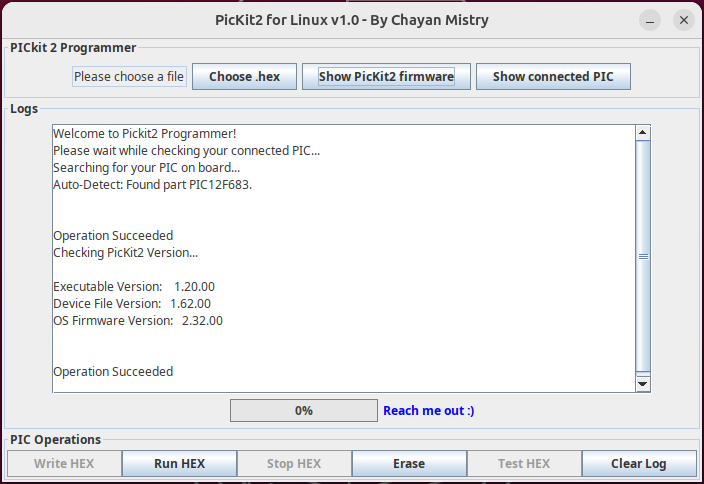
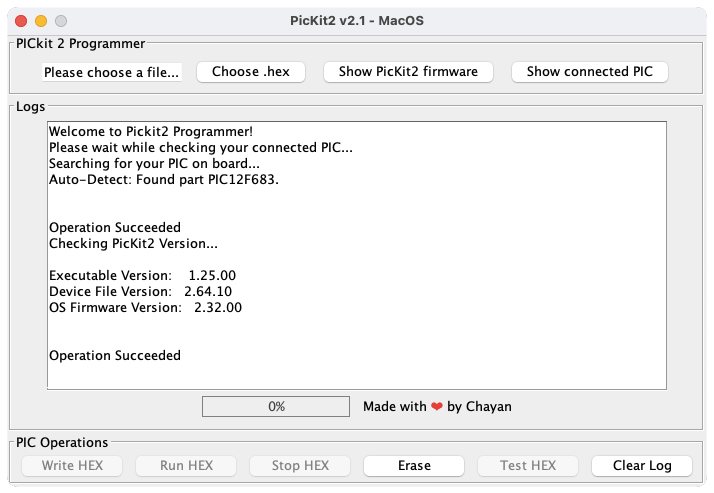
update readme

Changed region(s): [[0.0, 0.0, 1.0, 1.0], [0.0625, 0.4339, 0.3438, 0.8058]]

diff --git a/README.md b/README.md
@@ -1,5 +1,5 @@
-## PicKit2 GUI Linux
-Simple graphical user interface for pk2cmd on Linux.
+## PK2CMD GUI
+Simple graphical user interface for pk2cmd on Linux, Mac and Windows.
 
 ![](/doc/pk2cmd-gui.png)
 
@@ -16,10 +16,20 @@ Simple graphical user interface for pk2cmd on Linux.
 - Some freezes can be seen during process. Don't panic, the PicKit is working and you'll see the output in the logs.
 
 ### Installation
-- Download the latest version from [here](https://github.com/chayanforyou/PicKit2-GUI-Linux/releases/latest) and `unzip` the file.
-- Install **libusb** driver, open terminal and type `sudo apt-get install libusb-0.1-4:i386`
-- Run the software, `java -jar PicKit2-Programmer-1.0.jar`
-- Enter your root password and you're done.
+
+#### Linux
+- Install **libusb** driver, open terminal and type `sudo apt-get install libusb-0.1-4`
+- Make the script executable, `chmod +x setup_pk2cmd.sh`
+- Run the script, `./setup_pk2cmd.sh`
+
+#### Mac
+- Install **libusb** driver, open terminal and type `brew install libusb`
+- Make the script executable, `chmod +x setup_pk2cmd.sh`
+- Run the script, `./setup_pk2cmd.sh`
+
+#### Windows
+- Install **libusb** driver, download from here [libusb-win32](https://github.com/mcuee/libusb-win32)
+- Run the script, `setup_pk2cmd.bat`
 
 ### Disclaimer
 No warranty will be made for this software. Use it at your own risks!
